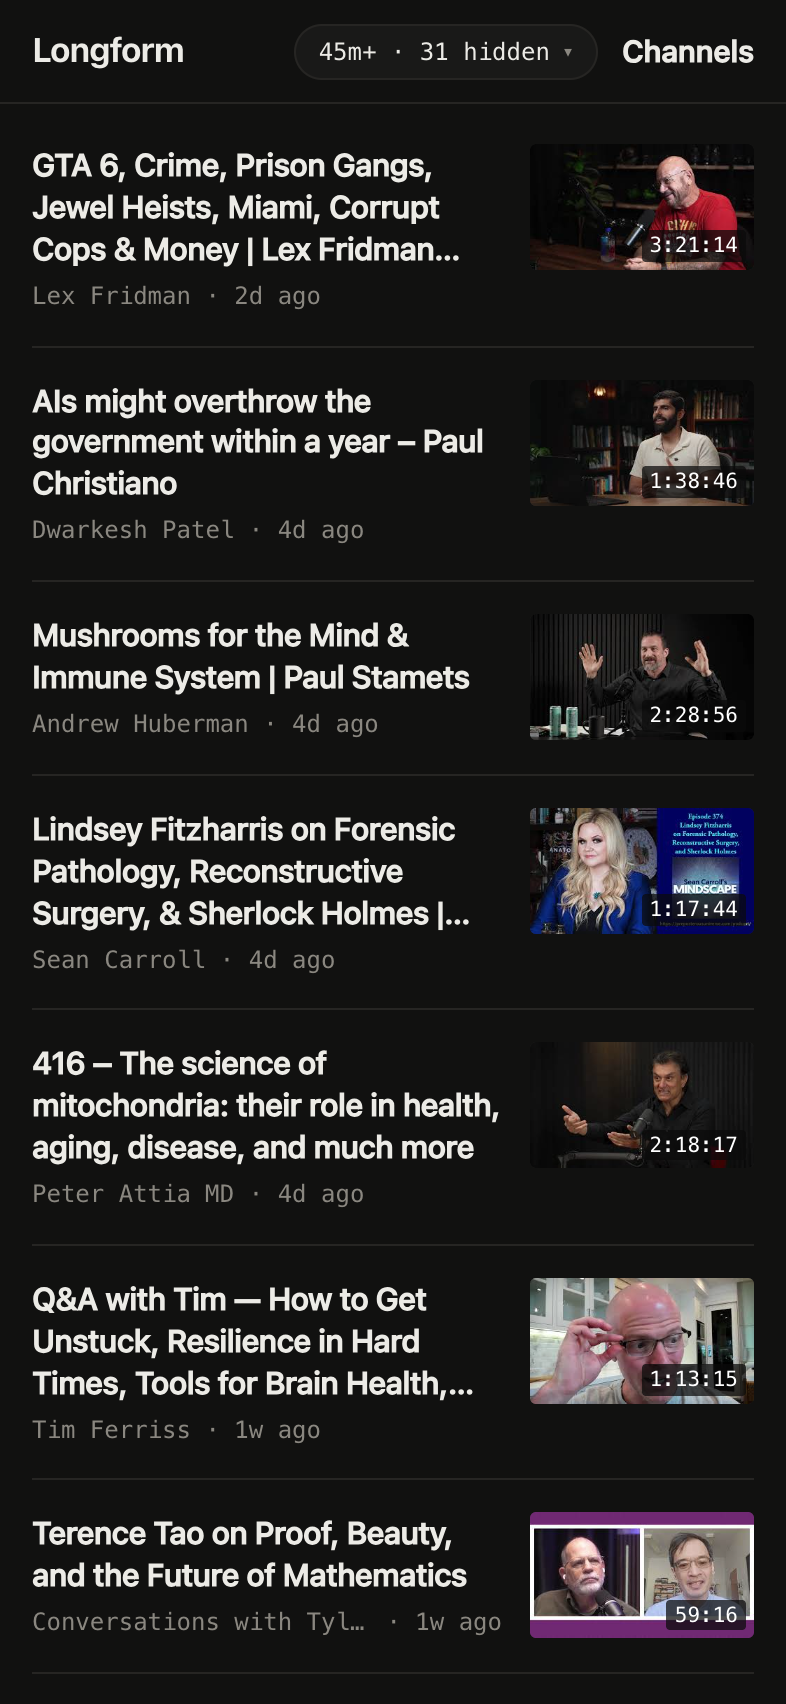
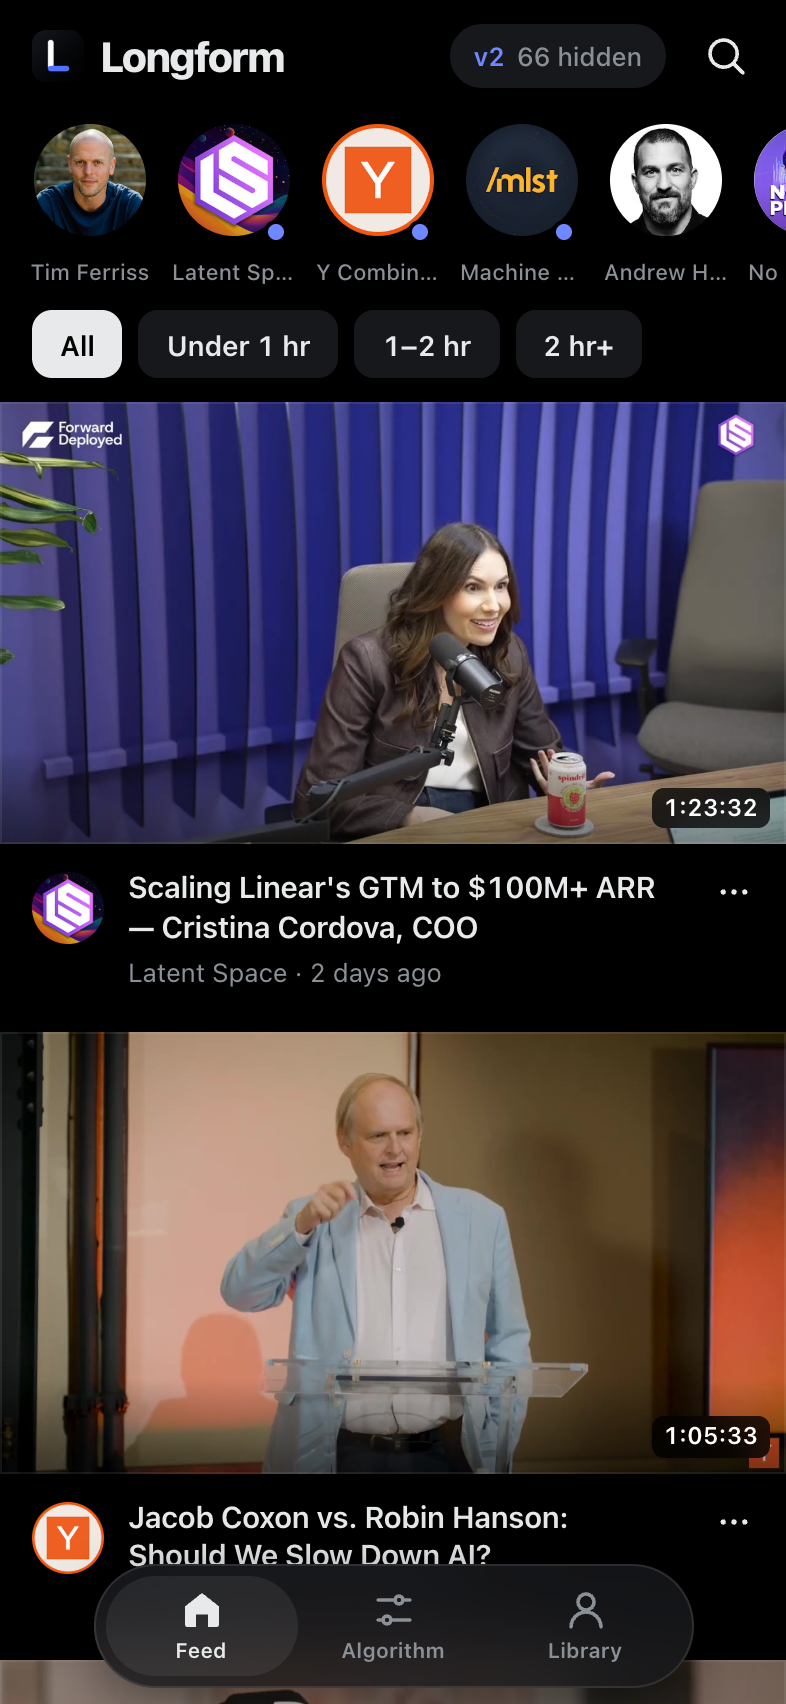
Show the redesigned screens in the README and describe the new feed and algorithm views.

diff --git a/README.md b/README.md
@@ -1,23 +1,25 @@
 # Longform
 
-**Your YouTube, long-form only.** A minimalist, open-source feed of the channels you choose: no Shorts, no clickbait, no infinite scroll. A filter you can read, change, and roll back. Podcasts keep playing when your phone is locked.
+**Your YouTube, long-form only.** An open-source feed of the channels you choose, with the polish of a modern media app and none of the slot machine: no Shorts, no clickbait thumbnails, no infinite scroll. Your algorithm is a handful of rules you can read, change, preview, and roll back. Podcasts keep playing when your phone is locked.
 
 <p>
-  <img src="docs/screenshots/feed.png" width="220" alt="The feed: a single column of long-form videos with mid-video frames instead of thumbnails">
-  <img src="docs/screenshots/player.png" width="220" alt="The player in Listen mode, with chapters">
-  <img src="docs/screenshots/rules.png" width="220" alt="The algorithm sheet: rules written as sentences">
+  <img src="docs/screenshots/feed.png" width="200" alt="The feed: full-width cards with a frame from the middle of each video, channel avatars, and length chips">
+  <img src="docs/screenshots/player.png" width="200" alt="The ambient Now Playing screen in Audio mode, with chapters">
+  <img src="docs/screenshots/algorithm.png" width="200" alt="The Algorithm tab: how many videos make your feed, and why the rest are hidden">
+  <img src="docs/screenshots/library.png" width="200" alt="Library: listening this week, recently played, settings">
 </p>
 
 Inspired by Andrej Karpathy's [HackerTube](https://hackertube.org): account-free, local-first, and it shows a frame from the middle of each video instead of the uploader's attention-optimized thumbnail.
 
 ## What it does
 
-- **Your channels, long-form only.** Add channels by name, @handle, or link; import your YouTube subscriptions from Google Takeout; or start with a curated pack (Podcasts, AI & Tech, Lectures & Science, Business). Shorts and live streams are never fetched.
+- **Your channels, long-form only.** Pick what you want to learn on first launch (Podcasts, AI & Tech, Lectures & Science, Business), follow channels by name, @handle, or link, or import your YouTube subscriptions from Google Takeout. Shorts and live streams are never fetched.
+- **A feed you can finish.** Full-width cards with mid-video frames, a row of your channels (a dot means a new episode), and chips for how much time you have: under 1 hour, 1–2 hours, 2 hours+. The feed ends with "You're all caught up", not more recommendations.
 - **A deterministic filter.** Every video is shown, newest first, unless one of your rules hides it. No ranking, no engagement signals, no ML. The whole algorithm is [`src/lib/filter.ts`](src/lib/filter.ts).
-- **Every change on the record.** Editing rules shows a diff and how many videos it adds or removes before you save. Each save becomes a version (v1, v2, …) with an optional note, and any version can be restored in one tap.
-- **Nothing hidden from you.** The Hidden tab lists every filtered video with the exact reason (`Shorter than 20 min (8:14)`, `Title contains “clips”`). Tap one to play it anyway.
+- **Every change on the record.** The Algorithm tab shows how many of your videos make the feed and which rule hides the rest. As you change a rule, those numbers update live, and before saving you can see exactly which videos it adds or removes. Each save becomes a version (v1, v2, …) with an optional note, and any version can be restored in one tap.
+- **Nothing hidden from you.** Every filtered video lists the exact reason (`Shorter than 20 min (8:14)`, `Title contains “clips”`). Tap one to play it anyway.
 - **Listen or Watch.** Listen streams just the audio through a plain `<audio>` element, so it keeps playing with the screen locked and shows lock-screen controls. Watch uses the official YouTube embed. Switch at any second; if you lock your phone mid-video, it carries on as audio.
-- **Made for long episodes.** Resume where you left off, a Continue section, chapters parsed from descriptions, speed control (1–2×), −15/+30s skips, and Mark as finished to clear a video without playing it to the end.
+- **Made for long episodes.** Resume where you left off (the mini-player reopens with your last episode), chapters parsed from descriptions, speed control (1–2×), −15/+30s skips, Mark as finished, and a weekly listening summary.
 - **Private by design.** No account. Your channels, rules, history, and progress live on your device. Export and import a backup file to move them.
 
 ## The algorithm
@@ -35,9 +37,10 @@ Hide videos I’ve finished [on]
 Words match whole words, ignoring case and accents: `clip` hides “Best clip” but not “eclipse”. End a word with `*` to match its start: `react*` hides “reaction”. Rules are plain JSON, so you can also edit them as text in the app.
 
 <p>
-  <img src="docs/screenshots/hidden.png" width="220" alt="Hidden tab with the reason each video was filtered">
-  <img src="docs/screenshots/history.png" width="220" alt="History tab with versions, diffs, and notes">
-  <img src="docs/screenshots/feed-dark.png" width="220" alt="The feed in dark mode">
+  <img src="docs/screenshots/algorithm-draft.png" width="200" alt="Changing a rule: the feed count updates live and a save bar shows the change">
+  <img src="docs/screenshots/change-preview.png" width="200" alt="Preview of exactly which videos a rule change removes, and why">
+  <img src="docs/screenshots/actions.png" width="200" alt="The actions for a video: listen, watch, mark as finished, open in YouTube, unfollow">
+  <img src="docs/screenshots/feed-dark.png" width="200" alt="The feed in dark mode">
 </p>
 
 ## Put it on your iPhone
@@ -86,11 +89,12 @@ applyRules(videos, rules) → feed             └ YouTube RSS of the channel's 
                                              └ yt-dlp finds the AAC audio stream; the server relays it
                                                with HTTP Range support so Safari can seek
 YouTube IFrame player (Watch)                GET /api/channels/find?q=  (name, @handle, or link)
+<img src="/api/avatar/:id">                  GET /api/avatar/:id  (cached by the server, once a day)
 ```
 
 - **No API key, no account.** Channel feeds come from YouTube's public RSS, which has exact publish dates and descriptions. Lengths come from one request per channel. Responses are identical for every user, so a CDN can cache them (`Cache-Control: s-maxage=900`).
 - **Audio.** A fresh YouTube stream URL only works a few seconds after it is issued, and asking too early breaks it for good, so the server waits exactly as yt-dlp does. It relays bytes in 8 MB chunks because YouTube throttles larger ranges. The feed warms the two most likely next plays, so pressing play is instant.
-- **The app** is React + Vite with no router or state library, about 1,800 lines of TypeScript plus one stylesheet. The server is [Hono](https://hono.dev) on Node, under 400 lines.
+- **The app** is React + Vite with no router or state library, about 2,800 lines of TypeScript plus one stylesheet, with no UI library. The server is [Hono](https://hono.dev) on Node, under 500 lines.
 
 ## Roadmap
 
